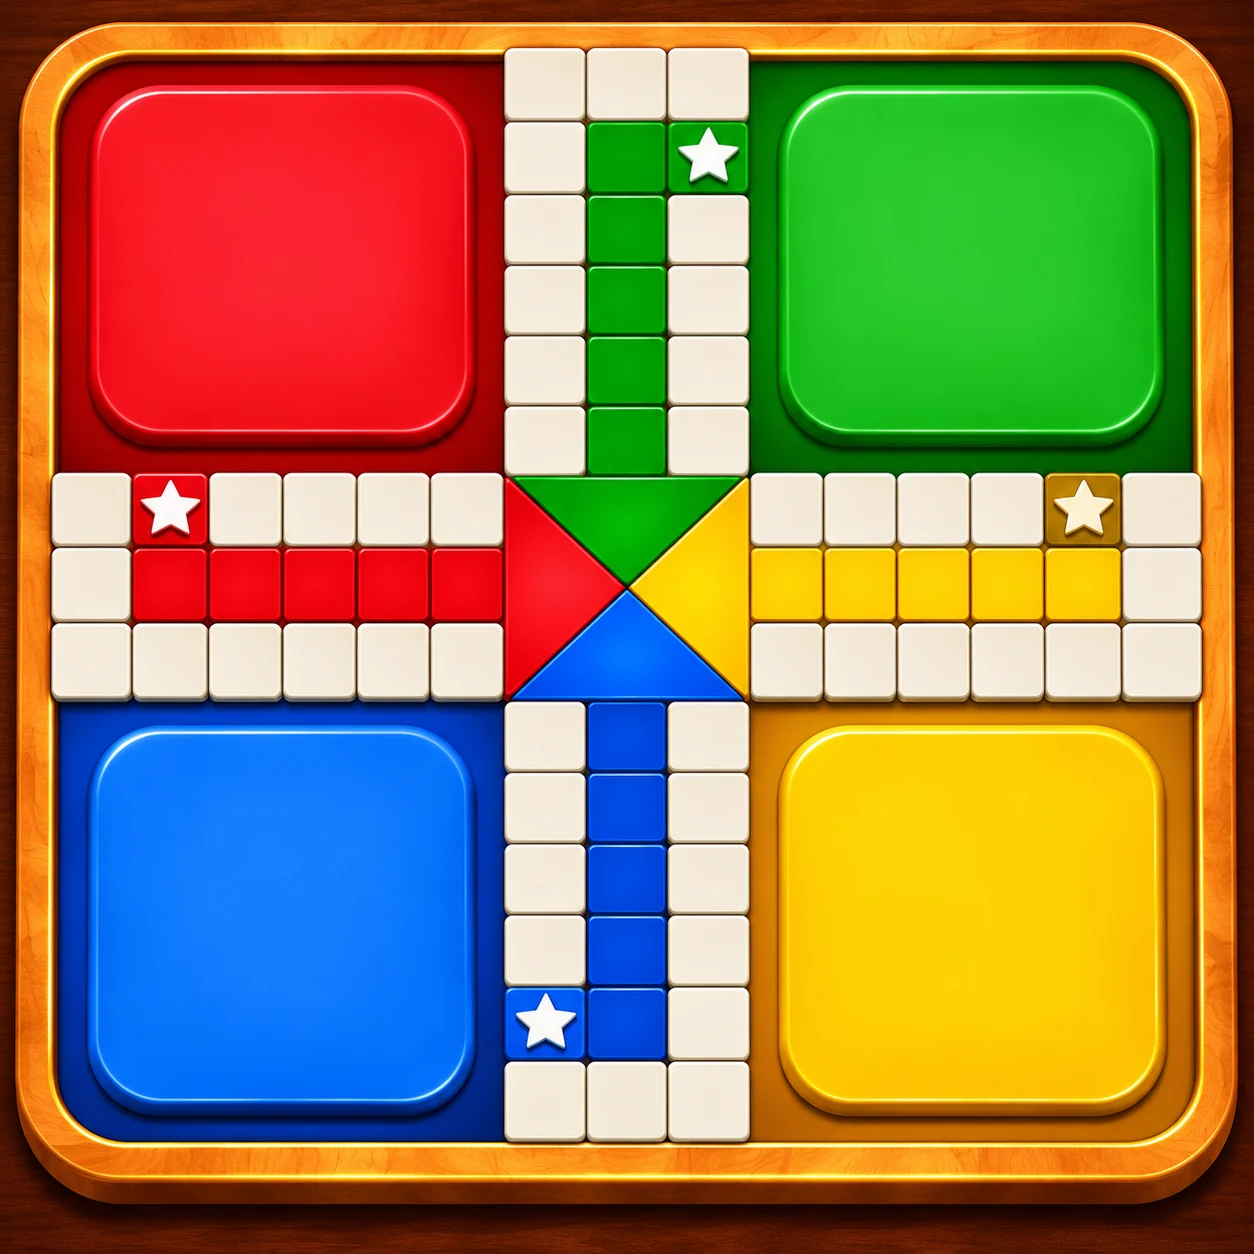
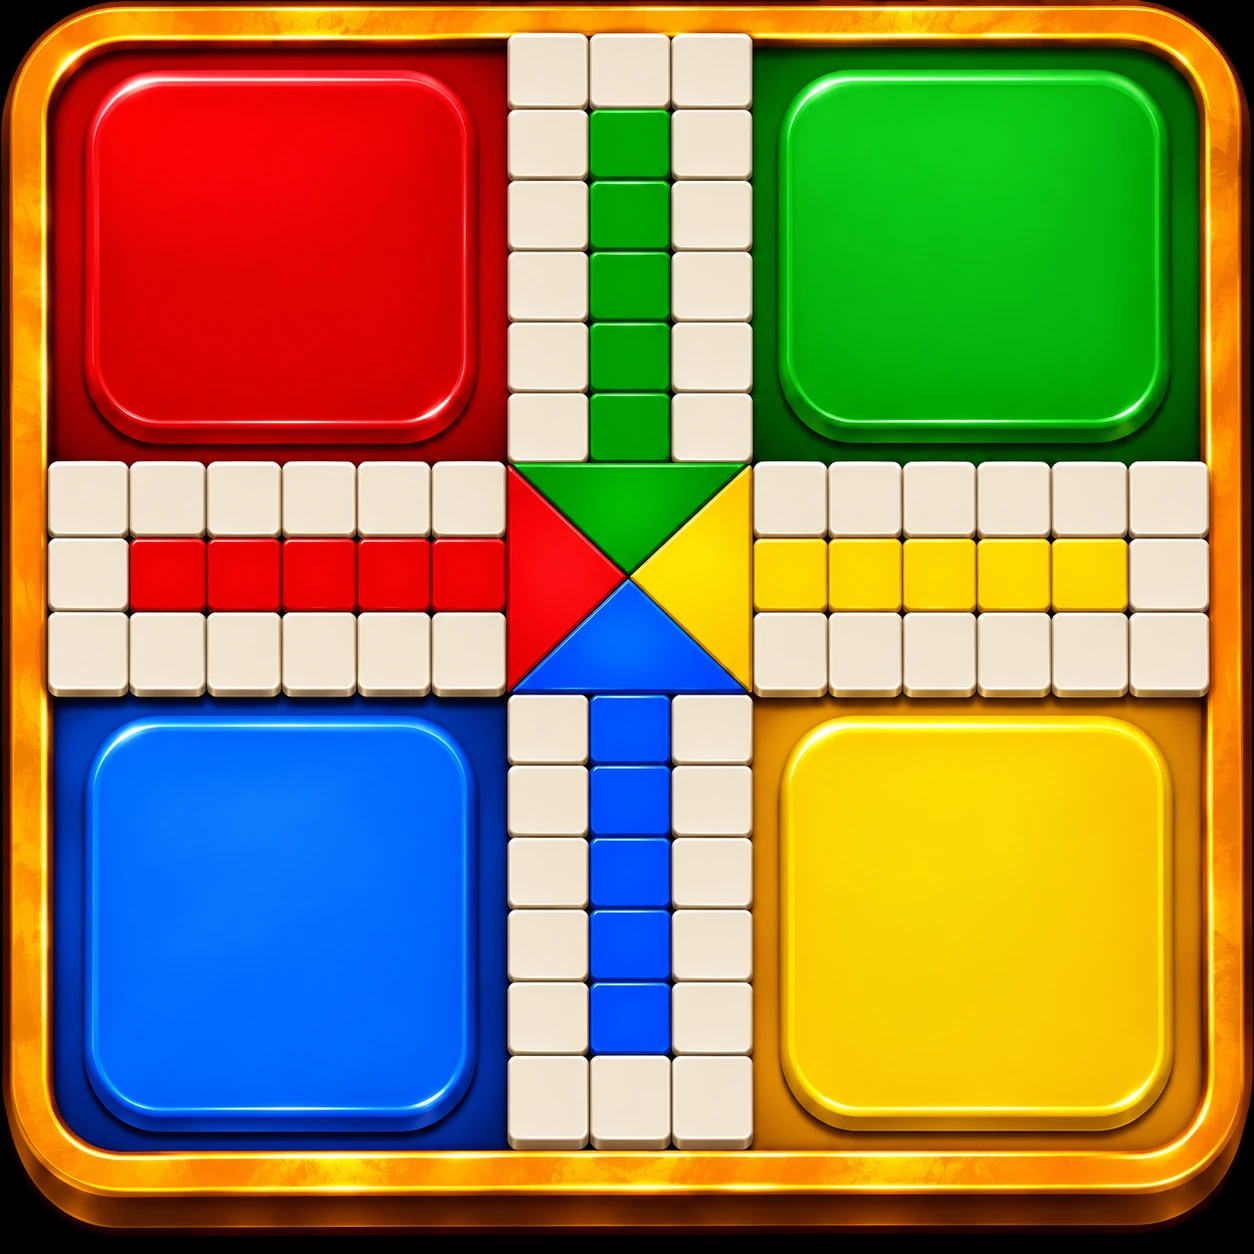
Align Ludu board, mark safe squares, and refine player color controls

diff --git a/games/ludo/ludo.css b/games/ludo/ludo.css
@@ -1089,21 +1089,24 @@ body.ludo-game.playing-ludo .yard-celebration.rank-4{animation:none;opacity:.9}
 /* 3D board plate artwork from the approved reference; live grid and pawns stay interactive. */
 body.ludo-game.playing-ludo .board.ludo{
   box-sizing:border-box;width:min(100%,min(83vh,900px));aspect-ratio:1;margin:0 auto;
-  padding:4%;gap:0;border:0;border-radius:0;overflow:visible;
+  padding:2.7% 4% 8%;gap:0;border:0;border-radius:0;overflow:visible;
   background:#30170c url("./ludo-board-art.webp") center/100% 100% no-repeat;
   box-shadow:none;isolation:isolate
 }
 body.ludo-game.playing-ludo .board.ludo>div:not(.home-base):not(.home-diamond):not(.yard-celebration){
   border:0!important;border-radius:0!important;background:transparent!important;box-shadow:none!important;overflow:visible
 }
-body.ludo-game.playing-ludo .board.ludo .safe::before{display:none!important}
+body.ludo-game.playing-ludo .board.ludo .safe::before{content:"★";position:absolute;inset:0;z-index:4;display:grid!important;place-items:center;color:#fff;font-size:clamp(12px,3.2vw,23px);line-height:1;text-shadow:0 2px 2px #33210d,0 0 4px #f1c25c;pointer-events:none}
 body.ludo-game.playing-ludo .board.ludo .home-base{overflow:visible!important;border:0!important;border-radius:0!important;background:transparent!important;box-shadow:none!important}
 body.ludo-game.playing-ludo .board.ludo .home-base::after{display:none!important}
 body.ludo-game.playing-ludo .board.ludo .home-base::before{content:"";position:absolute;inset:12%;z-index:0;border-radius:18%;background:var(--yard-color);opacity:0;pointer-events:none}
 body.ludo-game.playing-ludo .board.ludo .home-base.custom-color::before{opacity:.62}
+body.ludo-game.playing-ludo .board.ludo .home-base.custom-color::before{inset:14%;border:2px solid #fff9;opacity:1;background:linear-gradient(145deg,color-mix(in srgb,var(--yard-color) 88%,white),color-mix(in srgb,var(--yard-color) 92%,#140801));box-shadow:inset 0 3px 8px #fff8,0 2px 4px #19080066}
 body.ludo-game.playing-ludo .board.ludo .home-diamond{border:0!important;background:transparent!important;box-shadow:none!important}
+body.ludo-game.playing-ludo .board.ludo .home-center.has-finished::after{content:"";position:absolute;inset:8%;z-index:3;border:2px solid #fff0a0;border-radius:8%;background:radial-gradient(circle,#fff8,transparent 65%);box-shadow:0 0 8px #ffdb55,inset 0 0 10px #ffe988;animation:final-square-glow 1.6s ease-in-out infinite alternate;pointer-events:none}
+@keyframes final-square-glow{from{opacity:.45;filter:brightness(1)}to{opacity:1;filter:brightness(1.4)}}
 body.ludo-game.playing-ludo .board.ludo .lane::before{content:"";position:absolute;inset:0;z-index:0;background:var(--lane-tint);opacity:0;pointer-events:none}
-body.ludo-game.playing-ludo .board.ludo .lane.custom-color::before{opacity:.52}
+body.ludo-game.playing-ludo .board.ludo .lane.custom-color::before{inset:2px;border:1px solid #fff9;border-radius:3px;opacity:.94;box-shadow:inset 0 2px #fff8,0 1px 2px #17080366}
 body.ludo-game.playing-ludo .board.ludo .lane-0{--lane-tint:var(--seat-0)}
 body.ludo-game.playing-ludo .board.ludo .lane-1{--lane-tint:var(--seat-1)}
 body.ludo-game.playing-ludo .board.ludo .lane-2{--lane-tint:var(--seat-2)}
@@ -1112,4 +1115,20 @@ body.ludo-game.playing-ludo .board.ludo .yard{z-index:1}
 body.ludo-game.playing-ludo .board.ludo span.ludo-pawn.sprite-pawn{inset:-45% -50%!important;width:200%!important;height:190%!important}
 body.ludo-game.playing-ludo .board.ludo .home-base.inactive-home{background:transparent!important;border-color:transparent!important}
 body.ludo-game.playing-ludo .board.ludo .lane.inactive-lane{background:transparent!important}
-@media(max-width:620px){body.ludo-game.playing-ludo .board.ludo{padding:4%;border:0!important;border-radius:0!important;width:min(100%,min(83vh,100vw))}}
+@media(max-width:620px){body.ludo-game.playing-ludo .board.ludo{padding:2.7% 4% 8%;border:0!important;border-radius:0!important;width:min(100%,min(83vh,100vw))}}
+
+/* Color is chosen from the player's own header; all eight swatches stay in one row. */
+body.ludo-game.playing-ludo .player-dice{position:relative;overflow:visible}
+body.ludo-game.playing-ludo .player-dice-label{cursor:pointer;touch-action:manipulation}
+body.ludo-game.playing-ludo .player-dice-label:disabled{cursor:default;opacity:.82}
+body.ludo-game.playing-ludo .player-color-picker{position:absolute;z-index:50;display:flex;flex-flow:row nowrap;align-items:center;justify-content:center;gap:4px;width:max-content;max-width:94vw;padding:7px;border:1px solid #f3d47e;border-radius:12px;background:linear-gradient(145deg,#4a2814,#1d0e08);box-shadow:0 4px 12px #100500bb}
+body.ludo-game.playing-ludo .player-color-picker[hidden]{display:none!important}
+body.ludo-game.playing-ludo #dice-red .player-color-picker{left:0;top:calc(100% + 3px)}
+body.ludo-game.playing-ludo #dice-green .player-color-picker{right:0;top:calc(100% + 3px)}
+body.ludo-game.playing-ludo #dice-blue .player-color-picker{left:0;bottom:calc(100% + 3px)}
+body.ludo-game.playing-ludo #dice-yellow .player-color-picker{right:0;bottom:calc(100% + 3px)}
+body.ludo-game.playing-ludo .player-color-swatch{display:grid;place-items:center;flex:0 0 30px;width:30px;height:30px;min-height:30px;padding:3px;border:2px solid #fff9;border-radius:50%;background:var(--swatch);box-shadow:inset 0 2px 3px #fff8,0 1px 2px #080300;cursor:pointer;touch-action:manipulation}
+body.ludo-game.playing-ludo .player-color-swatch.selected{outline:2px solid #ffea88;outline-offset:1px}
+body.ludo-game.playing-ludo .player-color-swatch:disabled{opacity:.24;filter:grayscale(1);cursor:default}
+body.ludo-game.playing-ludo span.ludo-pawn.custom-pawn-color{filter:hue-rotate(var(--pawn-hue,0deg)) saturate(1.12)!important}
+@media(max-width:620px){body.ludo-game.playing-ludo .player-color-picker{gap:3px;padding:5px}body.ludo-game.playing-ludo .player-color-swatch{flex-basis:27px;width:27px;height:27px;min-height:27px;padding:2px}}

diff --git a/games/ludo/index.html b/games/ludo/index.html
@@ -5,9 +5,9 @@
   <meta name="viewport" content="width=device-width, initial-scale=1">
   <title>Ludu Mahir | Walid AI Games</title>
   <link rel="icon" href="/kathgolap-logo.png">
-  <link rel="stylesheet" href="../arcade.css?v=20261107ludu-board17">
-  <link rel="stylesheet" href="./ludo.css?v=20261107ludu-board17">
-  <script type="module" src="../ludo.mjs?v=20261107ludu-board17"></script>
+  <link rel="stylesheet" href="../arcade.css?v=20261107ludu-board21">
+  <link rel="stylesheet" href="./ludo.css?v=20261107ludu-board21">
+  <script type="module" src="../ludo.mjs?v=20261107ludu-board21"></script>
 
 </head>
 <body class="ludo-game">
@@ -125,7 +125,7 @@
       <button id="full-screen" type="button">⛶ Full Screen</button>
     </div>
     <div id="seat-options" class="seat-options" hidden></div>
-    <p class="color-hint">Before rolling, tap the small palette inside your own yard to choose a color.</p>
+    <p class="color-hint">Before rolling, tap your own player header to choose a color.</p>
     <p id="status" role="status"></p>
     <div class="ludo-stage">
       <div id="dice-red" class="player-dice red"></div>
